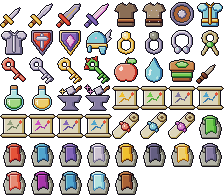
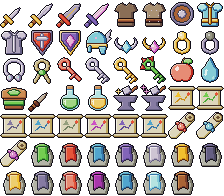
Circlets: the Head slot's magic bands
Two circlets, worn in the helmet's place: cheaper spells or harder ones
(design bible 5.6). The Equipment page titles the section Head.

diff --git a/tools/art/icongen.py b/tools/art/icongen.py
@@ -132,6 +132,16 @@ def helm():
     return cv.finish()[0]
 
 
+def circlet(metal, stone, lit):
+    """A thin band for the brow, seen from the front, its one stone at the centre."""
+    def paint():
+        cv = icon()
+        cv.part(cv.ellipse((7.0, 7.4), 5.4, 3.6) & ~cv.ellipse((7.0, 6.6), 4.6, 2.9), metal)
+        cv.part(cv.polygon([(7.0, 6.6), (9.0, 9.6), (7.0, 12.4), (5.0, 9.6)]), stone, deep=True)
+        cv.flat(cv.ellipse((6.5, 9.1), 0.5, 0.5), lit)
+        return cv.finish()[0]
+    return paint
+
 # --- Keys, fruit, dew, balm and draught ----------------------------------------
 
 def key(metal, teeth=2, thorn=False):
@@ -320,6 +330,8 @@ BY_ID = {
     "large_shield": kite(mat("ember", 5, 4, 3, 1), IRON, device=mat("stone", 7, 6, 5, 3)),
     "magic_shield": kite(mat("night", 5, 4, 3, 1), GOLD, glow=mat("crystal", 7, 6, 4, 2)),
     "elven_helm": helm,
+    "moonthread_circlet": circlet(mat("stone", 7, 6, 4, 2), mat("sky", 7, 6, 4, 2), PAL["sky-6"]),
+    "stormglass_circlet": circlet(GOLD, mat("crystal", 7, 6, 4, 2), PAL["crystal-7"]),
     "copper_key": key(mat("ember", 6, 5, 3, 1), teeth=1),
     "silver_key": key(mat("stone", 7, 6, 4, 2)),
     "gold_key": key(mat("gold", 7, 5, 3, 1)),

diff --git a/docs/design-bible.md b/docs/design-bible.md
@@ -603,7 +603,7 @@ So a hit costs about a mask from the first root to the Everbloom, and what grows
 
 Signature items (the Climbing Glove, the Featherstep Boots, the Elven Stride, the Delver's Pick and the like) take no slot. They sit in an Abilities section of the menu, always on. Feather Fall (6.10) leaves the skill tree and becomes a cloak.
 
-**Built (2026-11-13): the neck, the two rings and the relic.** `GameState.TRINKET_PLACES` gives each kind its places in `equipment` (`neck`, `ring1`, `ring2`, `relic`); `GEAR_KINDS` is the Equipment page's order. A trinket is an item with one rule field that `refresh_stats` adds up: `melee` (a share more blade damage), `flask` (a share more Sapflask healing), `mp_hit` (a share more mana a blow) or `dash` (a share more of the Elven Stride's time, so of its length). A relic names the ability it alters with `needs` and sleeps until that is found; its row says so. A bought ring goes on the free hand, a third is kept and not worn, and choosing a worn one takes it off. An older save comes over with the places empty, and a thing in the wrong place comes off. The first four, all sold: the Amber Band (ring, flask +10%, Hearthroot Sundries, 600), the Whetstone Ring (ring, blade +5%, Amberlee Provisions, 1,200), the Dewcatch Torc (neck, +25% mana a blow, the Bell-Tower Scriptorium, 1,800) and the Stride Knot (relic, Elven Stride +15%, the Kettleforge Larder, 1,500). `test_trinkets_neck_two_rings_and_a_relic` holds it. Not built yet: the Head slot's circlets (the Elven Helm keeps its `helmet` place until the one body), the cloak places, and the Abilities section.
+**Built (2026-11-13): the neck, the two rings and the relic.** `GameState.TRINKET_PLACES` gives each kind its places in `equipment` (`neck`, `ring1`, `ring2`, `relic`); `GEAR_KINDS` is the Equipment page's order. A trinket is an item with one rule field that `refresh_stats` adds up: `melee` (a share more blade damage), `flask` (a share more Sapflask healing), `mp_hit` (a share more mana a blow) or `dash` (a share more of the Elven Stride's time, so of its length). A relic names the ability it alters with `needs` and sleeps until that is found; its row says so. A bought ring goes on the free hand, a third is kept and not worn, and choosing a worn one takes it off. An older save comes over with the places empty, and a thing in the wrong place comes off. The first four, all sold: the Amber Band (ring, flask +10%, Hearthroot Sundries, 600), the Whetstone Ring (ring, blade +5%, Amberlee Provisions, 1,200), the Dewcatch Torc (neck, +25% mana a blow, the Bell-Tower Scriptorium, 1,800) and the Stride Knot (relic, Elven Stride +15%, the Kettleforge Larder, 1,500). `test_trinkets_neck_two_rings_and_a_relic` holds it. Not built yet: the cloak places.
 
 **The imbued armor.** The elven king opens an old vault at the start and gives the hero one suit that can be imbued, which is why a sword-and-shield fighter can also cast. It is old and muted, with a small armor value and no other bonus, and it is never replaced. It has one socket at the start; the elven smith adds a second and the dwarven smith a third.
 
@@ -630,6 +630,8 @@ Signature items (the Climbing Glove, the Featherstep Boots, the Elven Stride, th
 **Built (2026-11-14): the projectile slot.** `equipment.projectile` (`GameState.PROJECTILE_PLACE`) names what Throw throws, thrown weapons only. The Rune Dagger returns and never runs out; every other one is an item of kind `projectile` in `data/items.json`, carried by count in `GameState.data.ammo` (at most its `carry`) and sold by the `bundle`. `GameState.projectile` gives the slot's choice while you still have it, else the first thing you do have, so a counted weapon that runs out falls back to the dagger. A shield and a projectile are both worn: Sean's off-hand rule of 2026-10-31 is dropped, with its Off Hand section, its banner and the notice older saves were owed (5.2). The Equipment page lists a **Projectile** section (the dagger first, then each counted weapon with its count); choosing a row puts it on the Throw button. The HUD shows a counted weapon in hand and how many are left, and nothing for the dagger. A counted throw is a `RuneDagger` with its item's `kind`: it flies at the item's `speed` to its `range`, does its `damage` (scaled like the dagger's), does not come back, lights nothing, and the next waits the item's `wait`. The first one: **Hawthorn Spikes** (4 damage, 520 px/s, 220 px, 0.25 s apart; six to a bundle for 60 gold at Hearthroot Sundries; carry twelve). A save from before the slot that found the dagger has it in the slot; a slot or a count that makes no sense is cleared. `test_the_projectile_slot_throws_beside_a_shield` holds it. Not built yet: lobbed and area weapons (holy water, oils, swarms), and the throw clip hiding the shield for its frames.
 
 **Built (2026-11-14): the Abilities section.** The Equipment page lists the signature finds under "Abilities, always on", above the cloak: the Climbing Glove, the Delver's Pick, the Featherstep Boots, the Elven Stride, the Seer's Lens and the Stillstone (`Menus.ABILITIES`), in the order they are found, each marked Always on with its line. They are rows to read: choosing one changes nothing. The Rune Dagger is not among them, because it sits in the projectile slot. The Inventory page (pass 205) no longer has an Abilities group, so each find shows in one place; it keeps spells, relics, rings, keys, supplies, shards and charts. `test_the_equipment_page_lists_abilities_as_always_on`.
+
+**Built (2026-11-16): the Head slot's circlets.** A circlet is an item of kind `helmet` marked `circlet`, so it is worn in `equipment.helmet`, the Head place, which the Equipment page now titles Head. It has one spell rule and gives the body nothing: `spell_cost` (a share less mana for every spell, multiplied with Thrift) or `spell_power` (a share more damage on every spell, applied in `Spells.cast_all` after the Briar Wand and Wisp Swarm). The first two, both sold: the Moonthread Circlet (spells cost 15% less, Sylvarre Provisions, 1,400) and the Stormglass Circlet (spells hit 15% harder, the Bell-Tower Scriptorium, 2,600). **Deviation, until the one body:** the table says the Head holds circlets only, but the Elven Helm still lives in this place, so the head is a choice between the helm's mask, armor and ward and a circlet's sorcery; wearing one takes the other off. A circlet is a thin band, so it draws nothing and the hood goes up over it. `test_circlets_are_worn_on_the_head_and_shape_spells`.
 
 **Levels and skills (direction only; the design comes later).** The 16 named ranks become levels. A level-up is a moment: a micro pause, a brief chromatic glow on the hero, and health and mana filled at once. **Built (2026-11-13):** the moment itself. A rank gained holds the world for 0.18 s (`Player.LEVEL_UP_PAUSE`), fills health and mana, and splits red and cyan ghosts from the hero that close back in over 0.7 s under a pale gold cast (`PlayerVisual.flash_level_up`); `test_a_level_up_pauses_glows_and_refills` holds it. Still to build: a level gives a little health, mana or damage, and no skill point. The 15 points the ranks gave move to fixed places (bosses, hidden shrines, secret areas), so no point can be ground out and secrets hold more than gold. Experience comes from kills only; a boss pays once, when the whole fight ends, and foes summoned in a boss arena pay nothing. Ringreaders still unlearn skills, for gold that grows each time.
 
